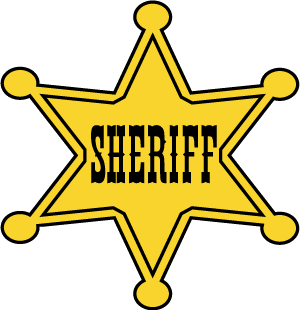
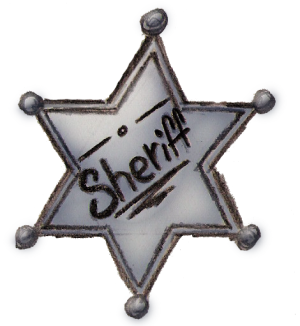
New graphics by Wenza.

diff --git a/src/client/opponentwidget.cpp b/src/client/opponentwidget.cpp
@@ -83,10 +83,10 @@ void OpponentWidget::updateWidgets()
 
 void OpponentWidget::moveWinnerIcon()
 {
-    /** @todo: refactor me please */
     createRoleCard();
-    mp_winnerIcon->move(mp_roleCard->x() + (int)(mp_roleCard->width() / 2) - (int)(mp_winnerIcon->width() / 3),
-                        mp_roleCard->y() + mp_roleCard->height() - (int)(mp_roleCard->height() / 2));
+    int x = (int)((mp_hand->width() - mp_winnerIcon->width()) / 2);
+    int y = (int)((mp_table->y() + mp_table->height() - mp_hand->y() - mp_winnerIcon->height()) / 2);
+    mp_winnerIcon->move(mp_hand->x() + x, mp_hand->y() + y);
 }
 
 void OpponentWidget::createSheriffBadgeIcon()
@@ -116,17 +116,23 @@ void OpponentWidget::createRoleCard()
     if (mp_roleCard != 0)
         return;
     mp_roleCard = cardWidgetFactory()->createRoleCard(this, ROLE_UNKNOWN);
-    mp_roleCard->setSize(CardWidget::SIZE_NORMAL);
-    mp_roleCard->validate();
-    mp_roleCard->move((int)(width() / 2 - mp_roleCard->width() / 2),
-                      (int)(height() / 2 - mp_roleCard->height() / 2));
-
 }
 
 void OpponentWidget::updateRoleCard()
 {
     if (!m_isAlive || mp_game->isFinished()) {
         createRoleCard();
+        if (m_isWinner) {
+            mp_roleCard->setSize(CardWidget::SIZE_SMALL);
+            mp_roleCard->validate();
+            mp_roleCard->move(mp_characterWidget->x(),
+                              height() - mp_roleCard->height() - 10);
+        } else {
+            mp_roleCard->setSize(CardWidget::SIZE_NORMAL);
+            mp_roleCard->validate();
+            mp_roleCard->move((int)(width() / 2 - mp_roleCard->width() / 2),
+                              (int)(height() / 2 - mp_roleCard->height() / 2));
+        }
         mp_roleCard->setPlayerRole(m_playerRole);
         mp_roleCard->validate();
         mp_roleCard->show();

diff --git a/src/client/cardlist.cpp b/src/client/cardlist.cpp
@@ -34,6 +34,7 @@ using namespace client;
 CardList::CardList(QWidget *parent):
         CardPocket(parent),
         m_cardSize(CardWidget::SIZE_SMALL),
+	m_hasBox(1),
         m_hPadding(3),
         m_vPadding(3)
 {
@@ -106,8 +107,15 @@ CardWidget* CardList::pop()
 
 void CardList::paintEvent(QPaintEvent* event)
 {
-    QPainter painter(this);
-    painter.fillRect(event->rect(), QColor(0, 0, 0, 16));
+    if (m_hasBox) {
+        QPainter painter(this);
+        painter.fillRect(event->rect(), QColor(0, 0, 0, 16));
+    }
+}
+
+void CardList::setHasBox(bool hasBox)
+{
+    m_hasBox = hasBox;
 }
 
 void CardList::clear()

diff --git a/src/client/localplayerwidget.cpp b/src/client/localplayerwidget.cpp
@@ -149,9 +149,9 @@ void LocalPlayerWidget::updateWidgets()
 
 void LocalPlayerWidget::moveWinnerIcon()
 {
-    /** @todo: refactor me please */
-    mp_winnerIcon->move(mp_roleCardWidget->x() + 2, mp_roleCardWidget->y()
-                        + mp_roleCardWidget->height()- (int)(mp_winnerIcon->height() / 3));
+    int x = (int)((mp_hand->width() - mp_winnerIcon->width()) / 2);
+    int y = (int)((mp_table->y() + mp_table->height() - mp_hand->y() - mp_winnerIcon->height()) / 2);
+    mp_winnerIcon->move(mp_hand->x() + x, mp_hand->y() + y);
 }
 
 void LocalPlayerWidget::setRoleFromPublicData(PlayerRole playerRole)

diff --git a/src/client/cardlist.h b/src/client/cardlist.h
@@ -45,6 +45,8 @@ public:
     virtual CardWidget* pop();
 
     virtual void paintEvent(QPaintEvent* event);
+    
+    void setHasBox(bool hasBox);
 
     void clear();
 
@@ -57,6 +59,7 @@ private:
 
 private:
     CardWidget::Size m_cardSize;
+    bool             m_hasBox;
     bool             m_revealed;
     int              m_moveFactor;
     int              m_hPadding, m_vPadding;

diff --git a/src/client/playerwidget.cpp b/src/client/playerwidget.cpp
@@ -234,7 +234,7 @@ void PlayerWidget::updateAvatarLabel()
 void PlayerWidget::createWinnerIcon()
 {
     Q_ASSERT(mp_winnerIcon == 0);
-    QPixmap winnerPixmap(":/misc/winner.png");
+    QPixmap winnerPixmap("gfx/misc/winner-sign.png");
     mp_winnerIcon = new QLabel(this);
     mp_winnerIcon->setPixmap(winnerPixmap);
     mp_winnerIcon->resize(winnerPixmap.size());

diff --git a/src/client/game.cpp b/src/client/game.cpp
@@ -281,6 +281,7 @@ void Game::loadGameInterface()
     mp_selection->setPocketType(POCKET_SELECTION);
     mp_selection->setCardSize(CardWidget::SIZE_NORMAL);
     mp_selection->setSizePolicy(QSizePolicy::Fixed, QSizePolicy::Fixed);
+    mp_selection->setHasBox(0);
 
     QBoxLayout* l = new QBoxLayout(QBoxLayout::LeftToRight);
     l->addStretch(3);
